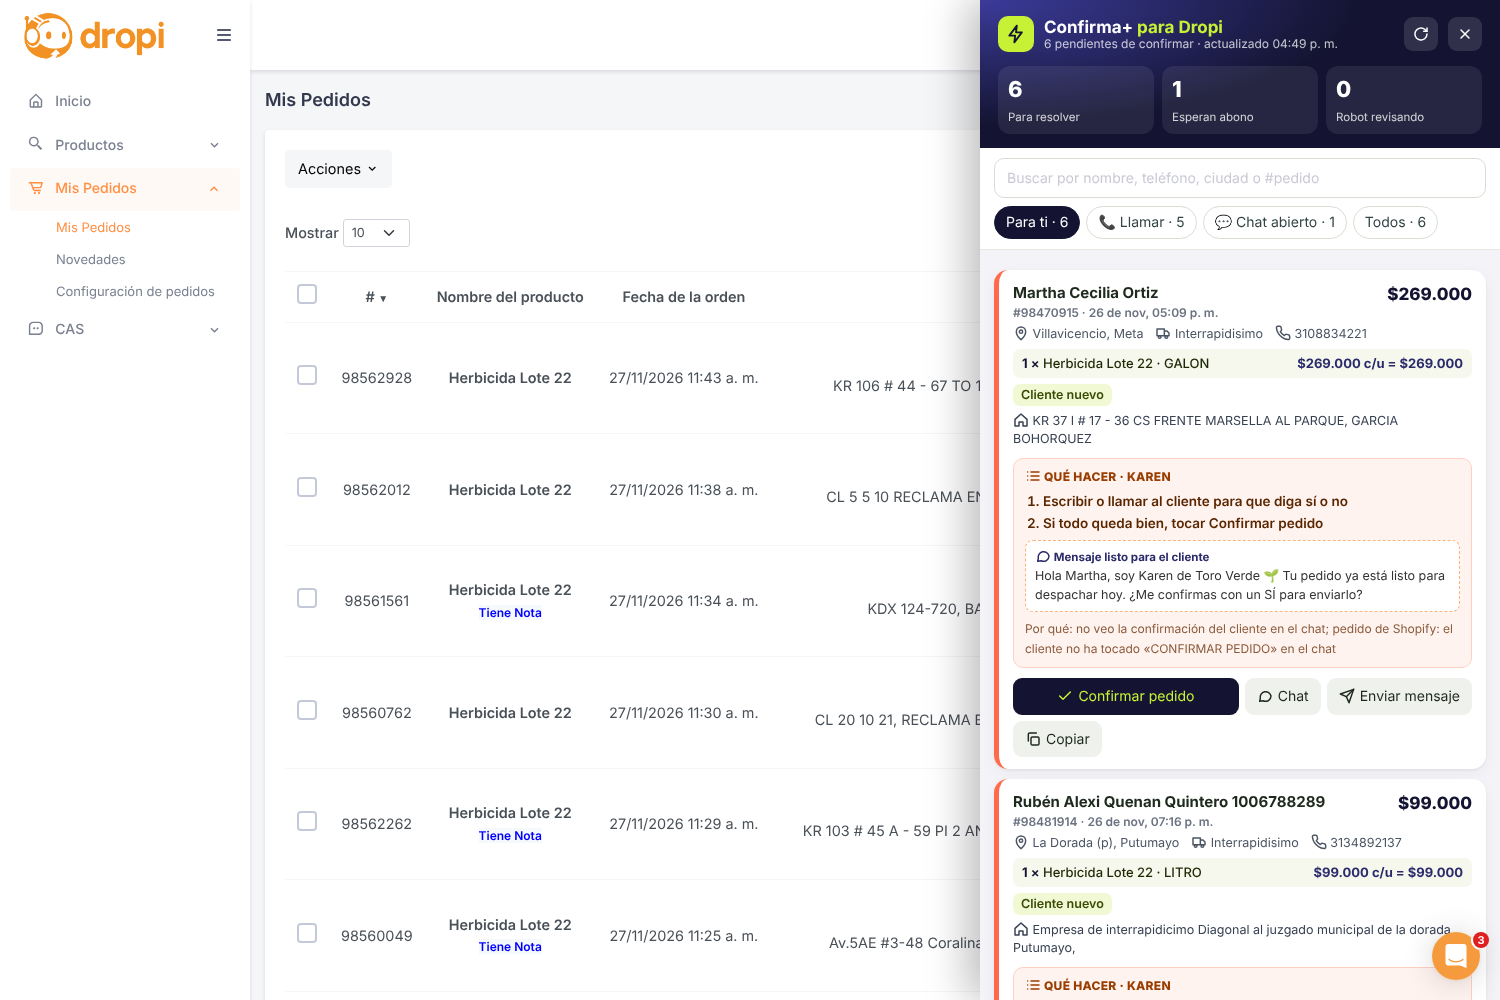
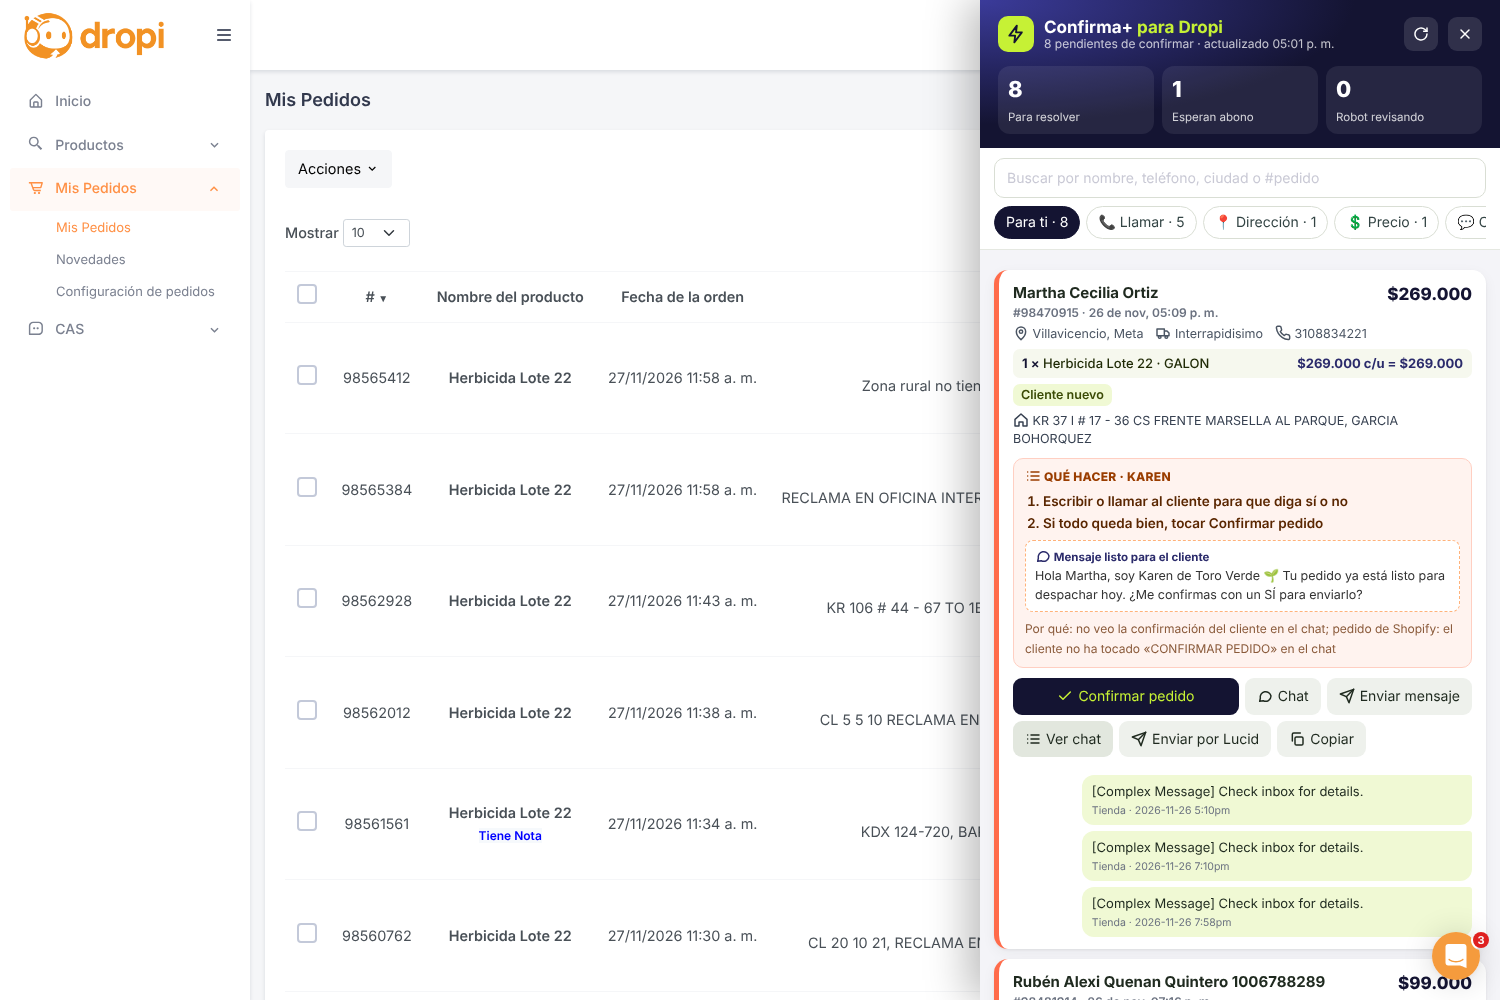
Confirma+ v4: configuración, ver chat de Lucid y enviar por Lucid
Claude-Session: https://claude.ai/code/session_019w2oDTrzDqc8mTA8QA1NJr

diff --git a/toro-verde/extension-dropi/confirmador.js b/toro-verde/extension-dropi/confirmador.js
@@ -26,9 +26,16 @@
     const r = await f0(API + u, { method: m, headers: { 'x-authorization': auth, accept: 'application/json', 'content-type': 'application/json' }, body: body ? JSON.stringify(body) : undefined });
     let j = null; try { j = await r.json(); } catch (e) {} return { s: r.status, j };
   };
+  // Configuración (Opciones de la extensión) y Lucid por el puente: la clave nunca llega a esta página
+  let CFG = { lucid: false, chatUrl: '', nombre: '', tienda: '', pais: '57' };
+  const esperando = {}; let nreq = 0;
+  window.addEventListener('message', (e) => { const m = e.data; if (e.source !== window || !m) return;
+    if (m.tv === 'cfg') { CFG = Object.assign(CFG, m.cfg); if (document.getElementById('tvc')) pintar(); }
+    if (m.tv === 'res' && esperando[m.id]) { esperando[m.id](m.r); delete esperando[m.id]; } });
+  const lucidApi = (ruta, metodo, cuerpo) => new Promise(res => { const id = ++nreq; esperando[id] = res; window.postMessage({ tv: 'req', id, ruta, metodo, cuerpo }, '*'); setTimeout(() => { if (esperando[id]) { delete esperando[id]; res({ ok: false, error: 'tiempo' }); } }, 20000); });
   const plata = (n) => '$' + Math.round(+n || 0).toLocaleString('es-CO');
   const parte = (t, k) => { const m = String(t || '').match(new RegExp(k + ':\\s*([^·|]+)')); return m ? m[1].trim() : ''; };
-  const lucid = (tel) => { let m = ''; try { m = localStorage.getItem('tv_lucid_url') || ''; } catch (e) {} return m ? m.replace('{tel}', '57' + tel) : ''; };
+  const lucid = (tel) => { let m = CFG.chatUrl || ''; if (!m) { try { m = localStorage.getItem('tv_lucid_url') || ''; } catch (e) {} } return m ? m.replace('{tel}', (CFG.pais || '57') + tel) : ''; };
   const hora = () => new Date().toLocaleString('es-CO', { day: '2-digit', month: '2-digit', hour: '2-digit', minute: '2-digit' });
 
   // ───────── Diseño Toro Verde (Ronald 27-11: «diseño único, buena experiencia de usuario») ─────────
@@ -64,6 +71,9 @@
   #tvc .cd .qh b{display:block;color:#9a3d00;font-size:13.5px}#tvc .cd .qh .qt{font-weight:800;color:#9a3d00;font-size:12px;text-transform:uppercase;letter-spacing:.3px}
   #tvc .cd .qh ol{margin:6px 0 6px 18px;padding:0;color:#5a2600;font-weight:600;font-size:13.5px}#tvc .cd .qh li{margin:3px 0}
   #tvc .cd .qh .dc{background:#fff;border:1px dashed #ffb27a;border-radius:8px;padding:7px 9px;margin:6px 0;font-size:12.5px;color:#333}#tvc .cd .qh .dc span{display:block;font-weight:700;color:var(--tv-ver);font-size:11.5px;margin-bottom:2px}
+  #tvc .tvchat{padding:0 14px 6px}#tvc .tvchat .msgc{color:#6b7280;font-size:12.5px;padding:6px 0}
+  #tvc .bur{max-width:85%;margin:6px 0;padding:7px 10px;border-radius:12px;font-size:13px}#tvc .bur small{display:block;color:#6b7280;font-size:10.5px;margin-top:2px}
+  #tvc .bur.cl{background:#eef0ff;border-top-left-radius:3px}#tvc .bur.yo{background:#f0f9d4;margin-left:auto;border-top-right-radius:3px}
   .tv-ojo{background:#9ca3af!important;color:#fff!important}
   .tvi{width:16px;height:16px;vertical-align:-3px;flex:none}#tvc .lg .tvi,#tvc-btn .ic .tvi{width:20px;height:20px}#tvc .cd .qh small{color:#8a5a3a;font-size:12px}
   #tvc .cd.rb .qh{background:#f3f4f2;border-color:#e2e5df}#tvc .cd.rb .qh b{color:#4b5563}
@@ -97,14 +107,15 @@
   }
   // Universal: sirve en cualquier tienda de Dropi. Si un robot dejó nota («🤖 ROBOT · POR QUÉ · QUÉ HACER · QUIÉN · DECIR»), manda la nota;
   // si no, la extensión revisa sola los datos del pedido (historial del cliente, dirección, repetidos) y propone los pasos.
+  const firma = () => `soy ${CFG.nombre || 'del equipo'}${CFG.tienda ? ' de ' + CFG.tienda : ''}`;
   function propio(o) {
     const e = +o.client_total_orders_delivered || 0, d = +o.client_total_orders_returneds || 0, n = (o.name || '').split(' ')[0];
     const pasos = [], por = []; let decir = '';
-    if (d > e) { por.push(`devolvió ${d} y recibió ${e}`); pasos.push('NO confirmar todavía: pedir un abono o llamar para asegurar que lo va a recibir'); decir = `Hola ${n}, te escribimos por tu pedido 🙌 Para despacharlo te pedimos un abono; el resto lo pagas al recibir. ¿Te comparto los datos?`; }
+    if (d > e) { por.push(`devolvió ${d} y recibió ${e}`); pasos.push('NO confirmar todavía: pedir un abono o llamar para asegurar que lo va a recibir'); decir = `Hola ${n}, ${firma()} 🙌 Te escribimos por tu pedido. Para despacharlo te pedimos un abono; el resto lo pagas al recibir. ¿Te comparto los datos?`; }
     const dir = String(o.dir || '');
-    if (!/oficina|reclama/i.test(dir) && !/\d+\s*[a-z]?\s*-\s*\d+|#\s*\d+|casa\s*\d+|mz/i.test(dir)) { por.push('la dirección no tiene número de casa'); pasos.push('Pedir la dirección completa con número de casa y un punto de referencia, y corregirla'); decir = decir || `Hola ${n}, para despachar tu pedido nos falta la dirección completa: calle, número de casa, barrio y un punto de referencia. ¿Nos la compartes?`; }
+    if (!/oficina|reclama/i.test(dir) && !/\d+\s*[a-z]?\s*-\s*\d+|#\s*\d+|casa\s*\d+|mz/i.test(dir)) { por.push('la dirección no tiene número de casa'); pasos.push('Pedir la dirección completa con número de casa y un punto de referencia, y corregirla'); decir = decir || `Hola ${n}, ${firma()}. Para despachar tu pedido nos falta la dirección completa: calle, número de casa, barrio y un punto de referencia. ¿Nos la compartes?`; }
     if (+o.ordenes_repetidas > 0 || (Array.isArray(o.ordenes_repetidas) && o.ordenes_repetidas.length)) { por.push('tiene otro pedido parecido'); pasos.push('Preguntar si son dos pedidos o uno repetido'); }
-    if (!pasos.length) { pasos.push('Revisar el chat del cliente: que haya aceptado producto, precio y dirección'); decir = `Hola ${n}, tu pedido ya está listo para despachar hoy. ¿Nos confirmas con un SÍ para enviarlo?`; }
+    if (!pasos.length) { pasos.push('Revisar el chat del cliente: que haya aceptado producto, precio y dirección'); decir = `Hola ${n}, ${firma()}. Tu pedido ya está listo para despachar hoy. ¿Nos confirmas con un SÍ para enviarlo?`; }
     if (!/NO confirmar/.test(pasos.join())) pasos.push('Si todo queda bien, tocar Confirmar pedido');
     return { que: pasos.map((p, i) => `${i + 1}) ${p}.`).join(' '), por: por.join(', ') || 'sin revisión automática', decir };
   }
@@ -182,7 +193,9 @@
           ${nuevo ? `<button class="tv-pr" data-acc="precio" data-v="${nuevo.replace(/\./g, '')}">${IC.tag} Precio a $${nuevo}</button>` : ''}
           ${chat ? `<a class="tv-sec" target="_blank" href="${chat}">${IC.chat} Chat</a>` : `<button class="tv-sec tv-aprender">${IC.chat} Chat</button>`}
           ${tel ? `<a class="tv-sec" target="_blank" href="https://wa.me/57${tel}${decir ? '?text=' + encodeURIComponent(decir) : ''}">${IC.send} ${decir ? 'Enviar mensaje' : 'WhatsApp'}</a>` : ''}
-          ${decir ? `<button class="tv-sec" data-acc="copiar" data-t="${encodeURIComponent(decir)}">${IC.copy} Copiar</button>` : ''}</div></div>`;
+          ${CFG.lucid && tel ? `<button class="tv-sec" data-acc="verchat" data-tel="${tel}">${IC.list} Ver chat</button>` : ''}
+          ${CFG.lucid && tel && decir ? `<button class="tv-sec" data-acc="lucid" data-tel="${tel}" data-t="${encodeURIComponent(decir)}">${IC.send} Enviar por Lucid</button>` : ''}
+          ${decir ? `<button class="tv-sec" data-acc="copiar" data-t="${encodeURIComponent(decir)}">${IC.copy} Copiar</button>` : ''}</div><div class="tvchat" data-chat="${o.id}"></div></div>`;
     }).join('');
   }
   async function anotar(id, texto) {
@@ -197,6 +210,25 @@
   }
   async function accion(btn) {
     const cd = btn.closest('.cd'); const id = cd.dataset.id; const o = pedidos.find(x => String(x.id) === id) || {};
+    if (btn.dataset.acc === 'verchat') {
+      const box = cd.querySelector('.tvchat'); if (box.innerHTML) { box.innerHTML = ''; return; }
+      box.innerHTML = '<div class="msgc">Cargando chat…</div>';
+      const r = await lucidApi(`/contacts/${CFG.pais || '57'}${btn.dataset.tel}/messages?limit=12`);
+      const t = typeof r.data === 'string' ? r.data : JSON.stringify(r.data || '');
+      if (!r.ok) { box.innerHTML = `<div class="msgc">No pude leer el chat (${r.error || r.status}).</div>`; return; }
+      const ms = t.split(/\n(?=(?:Yo|Usuario) \()/).filter(x => /^(Yo|Usuario) \(/.test(x)).slice(-10);
+      box.innerHTML = ms.map(x => { const yo = x.startsWith('Yo'); const h = (x.match(/\(([^)]+)\)/) || [])[1] || ''; const tx = x.replace(/^(Yo|Usuario) \([^)]*\):\s*/, '').replace(/\[Complex Message\] Check inbox for details\./g, '📨 (plantilla o mensaje con botones)');
+        return `<div class="bur ${yo ? 'yo' : 'cl'}"><div>${tx.replace(/</g, '&lt;').replace(/\n/g, '<br>')}</div><small>${yo ? 'Tienda' : 'Cliente'} · ${h}</small></div>`; }).join('') || '<div class="msgc">Sin mensajes.</div>';
+      return;
+    }
+    if (btn.dataset.acc === 'lucid') {
+      const txt = decodeURIComponent(btn.dataset.t);
+      if (!await modal('¿Enviar este mensaje por Lucid?', txt.replace(/</g, '&lt;'), 'Sí, enviar')) return;
+      const r = await lucidApi(`/contacts/${CFG.pais || '57'}${btn.dataset.tel}/send_content`, 'POST', { messages: [{ message: { text: txt } }] });
+      if (r.ok && JSON.stringify(r.data).includes('true')) { await anotar(cd.dataset.id, 'Mensaje enviado por Lucid'); toast('Mensaje enviado por Lucid ✔'); btn.textContent = 'Enviado ✔'; btn.disabled = true; }
+      else toast('Lucid no lo envió: el chat lleva más de 24 h cerrado. Usa «Enviar mensaje» por WhatsApp.');
+      return;
+    }
     if (btn.dataset.acc === 'copiar') { try { await navigator.clipboard.writeText(decodeURIComponent(btn.dataset.t)); toast('Mensaje copiado: pégalo en el chat del cliente'); } catch (e) { toast('No se pudo copiar'); } return; }
     const res = `<b>${o.name || ''} ${o.surname || ''}</b> · #${id}<br>${plata(o.total_order)} · ${(o.city || '')} · ${(o.distribution_company || {}).name || ''}<br>${o.dir || ''}`;
     if (btn.dataset.acc === 'ok') {

diff --git a/toro-verde/extension-dropi/opciones.html b/toro-verde/extension-dropi/opciones.html
@@ -1,0 +1,18 @@
+<!doctype html><html lang="es"><head><meta charset="utf-8"><title>Confirma+ · Configuración</title>
+<style>body{font:14px/1.5 'Segoe UI',system-ui,sans-serif;background:#f4f4f8;color:#141432;margin:0;min-width:380px}
+header{background:radial-gradient(120% 140% at 0% 0%,#3b3b9a,#141432 60%);color:#fff;padding:16px 20px}header b{font-size:17px}header span{color:#c6f135}
+main{padding:16px 20px;max-width:520px}label{display:block;font-weight:700;margin:12px 0 4px}small{color:#6b7280;font-weight:400}
+input{width:100%;box-sizing:border-box;border:1px solid #d9d9e3;border-radius:9px;padding:9px 11px;font:14px inherit}
+button{margin-top:16px;border:0;border-radius:9px;padding:10px 16px;font:700 14px inherit;cursor:pointer;background:#141432;color:#c6f135}
+#est{margin-top:12px;font-weight:600}</style></head><body>
+<header><b>⚡ Confirma+ <span>para Dropi</span></b><div>Configuración (se guarda solo en este Chrome)</div></header>
+<main>
+<label>Clave de la API de Lucid Bot <small>(Lucid → Configuración → API). Opcional: con ella ves el chat del cliente dentro de Dropi y le mandas el mensaje por Lucid.</small></label>
+<input id="lucid_token" type="password" autocomplete="off" placeholder="Pega aquí la clave">
+<label>Enlace de un chat de Lucid <small>(abre el chat de cualquier cliente y copia la dirección de arriba)</small></label>
+<input id="chat_url" placeholder="https://panel.lucidbot.co/...573001234567...">
+<label>Nombre de quien atiende <small>(sale en los mensajes: «soy …»)</small></label><input id="nombre" placeholder="Karen">
+<label>Nombre de la tienda</label><input id="tienda" placeholder="Mi tienda">
+<label>Código del país <small>(Colombia 57)</small></label><input id="pais" placeholder="57">
+<button id="g">Guardar</button> <button id="p">Probar conexión con Lucid</button>
+<div id="est"></div></main><script src="opciones.js"></script></body></html>

diff --git a/toro-verde/extension-dropi/fondo.js b/toro-verde/extension-dropi/fondo.js
@@ -1,0 +1,15 @@
+// Fondo: habla con la API de Lucid usando la clave que se guardó en Opciones. Solo permite leer el chat de un contacto y mandarle un texto.
+chrome.runtime.onMessage.addListener((m, _s, responder) => {
+  if (!m || m.tipo !== 'lucid') return;
+  const ok = /^\/contacts\/\d{10,15}(\/messages\?limit=\d+|\/send_content)?$|^\/accounts\/custom_fields$/.test(m.ruta || '');
+  if (!ok) { responder({ ok: false, error: 'ruta no permitida' }); return; }
+  chrome.storage.local.get(['lucid_token'], async ({ lucid_token }) => {
+    if (!lucid_token) { responder({ ok: false, error: 'Falta la clave de Lucid en Opciones' }); return; }
+    try {
+      const r = await fetch('https://panel.lucidbot.co/api' + m.ruta, { method: m.metodo || 'GET', headers: { 'X-ACCESS-TOKEN': lucid_token, 'Content-Type': 'application/json' }, body: m.cuerpo ? JSON.stringify(m.cuerpo) : undefined });
+      const t = await r.text(); let j = null; try { j = JSON.parse(t); } catch (e) { j = t; }
+      responder({ ok: r.ok, status: r.status, data: (j && j.data !== undefined) ? j.data : j });
+    } catch (e) { responder({ ok: false, error: String(e) }); }
+  });
+  return true;
+});

diff --git a/toro-verde/extension-dropi/opciones.js b/toro-verde/extension-dropi/opciones.js
@@ -1,0 +1,10 @@
+const C = ['lucid_token', 'chat_url', 'nombre', 'tienda', 'pais'];
+chrome.storage.local.get(C, (v) => C.forEach(k => { document.getElementById(k).value = v[k] || ''; }));
+const est = (t, ok) => { const e = document.getElementById('est'); e.textContent = t; e.style.color = ok ? '#15803d' : '#b91c1c'; };
+document.getElementById('g').onclick = () => {
+  const v = {}; C.forEach(k => v[k] = document.getElementById(k).value.trim());
+  const m = v.chat_url.match(/\d{12}/); if (v.chat_url && m) v.chat_url = v.chat_url.replace(m[0], '{tel}');
+  chrome.storage.local.set(v, () => est('Guardado ✔ Recarga Dropi (F5).', true));
+};
+document.getElementById('p').onclick = () => chrome.runtime.sendMessage({ tipo: 'lucid', ruta: '/accounts/custom_fields' }, (r) =>
+  est(r && r.ok ? 'Conexión con Lucid OK ✔' : 'No conecta con Lucid: ' + ((r && (r.error || r.status)) || 'revisa la clave'), r && r.ok));

diff --git a/toro-verde/extension-dropi/puente.js b/toro-verde/extension-dropi/puente.js
@@ -1,0 +1,11 @@
+// Puente entre la página de Dropi y el fondo de la extensión. La clave de Lucid NUNCA pasa a la página: solo vive en el fondo.
+(() => {
+  const enviarCfg = () => chrome.storage.local.get(['lucid_token', 'chat_url', 'nombre', 'tienda', 'pais'], (c) => {
+    window.postMessage({ tv: 'cfg', cfg: { lucid: !!c.lucid_token, chatUrl: c.chat_url || '', nombre: c.nombre || '', tienda: c.tienda || '', pais: c.pais || '57' } }, '*');
+  });
+  enviarCfg(); setTimeout(enviarCfg, 2000); chrome.storage.onChanged.addListener(enviarCfg);
+  window.addEventListener('message', (e) => {
+    const m = e.data; if (e.source !== window || !m || m.tv !== 'req') return;
+    chrome.runtime.sendMessage({ tipo: 'lucid', metodo: m.metodo, ruta: m.ruta, cuerpo: m.cuerpo }, (r) => window.postMessage({ tv: 'res', id: m.id, r: r || { ok: false, error: 'sin respuesta' } }, '*'));
+  });
+})();

diff --git a/toro-verde/ESTADO.md b/toro-verde/ESTADO.md
@@ -1006,3 +1006,4 @@ Carpeta Flujos / Recompra, 20 flujos, todos con Estado y Bandeja de Entrada ence
 - 27-11 4:40 p. m.: Confirmador Toro Verde v2.0 (extensión Dropi): panel con pendientes, KPIs, filtros, buscador, pasos exactos de qué hacer, mensaje listo para el cliente (WhatsApp con texto o copiar), historial, botones Confirmar / Precio / Chat Lucid; todo por API de Dropi, sin IA. Probado en Dropi real (14 pendientes). notas_revisar.py v2: pasos numerados + DECIR. Black Friday activo hasta 30-11 5 p. m.
 - 27-11 4:50 p. m.: Confirma+ para Dropi v3.0 (extensión universal): paleta e íconos propios, filtro «Para ti», revisión propia si no hay robot, mensajes listos. Probado en Dropi real (7-8 pendientes). aclarar.py usa la plantilla «Robot - aclarar dato» (1795794788926, campo Robot dato 2) con chat cerrado. Fichas: Marcelino (98548824) a domicilio Mz F casa 9 C Hacienda La Miel y confirmado; Mauricio (98560762) confirmado; Sandra (98561561) frenada por confirmar.js (Dropi: 0 entregados 1 devuelto). CAS: 2 mensajes como Karen; regla nueva «ingresado a bodega» → ESPERA.
 - 27-11 4:55 p. m.: Confirma+ muestra cantidad y precio (c/u y total) de cada producto, pidiendo el detalle por API. Zip arreglado: el manifiesto queda en la raíz (Chrome decía «falta el archivo de manifiesto»).
+- 27-11 5:05 p. m.: Confirma+ v4.0: Configuración (clave API de Lucid guardada solo en el Chrome, enlace de chat, nombre, tienda, país), Ver chat del cliente dentro de Dropi y Enviar por Lucid (fondo.js solo permite leer chat y mandar texto). Ver chat probado con datos reales; Enviar por Lucid sin probar (no se mandó nada a clientes). Universal para cualquier tienda.

diff --git a/toro-verde/extension-dropi/LEEME.md b/toro-verde/extension-dropi/LEEME.md
@@ -24,3 +24,11 @@ Dropi con esteroides para confirmar pedidos, **sin IA y sin salir de Dropi**.
 ## Versión 3.0
 - Universal: sirve para cualquier tienda de Dropi. Si hay un robot que deja notas («🤖 ROBOT …»), las usa; si no, la extensión revisa sola historial, dirección y repetidos.
 - Filtro «Para ti»: solo lo que necesita una persona. Íconos y colores propios.
+
+## Versión 4.0: configurable y con Lucid
+- Toca el ícono de la extensión (arriba en Chrome) para abrir la **Configuración**:
+  - **Clave de la API de Lucid** (opcional; se guarda solo en ese Chrome y nunca pasa a la página de Dropi).
+  - **Enlace de un chat de Lucid**, **nombre de quien atiende**, **nombre de la tienda** y **código del país**.
+  - Botón **Probar conexión con Lucid**.
+- Con la clave de Lucid, cada pedido trae **Ver chat** (los últimos mensajes del cliente dentro de Dropi) y **Enviar por Lucid** (manda el mensaje listo; si el chat lleva más de 24 h cerrado, avisa que uses WhatsApp).
+- Sirve para cualquier tienda: cada una pone su clave y sus datos.
